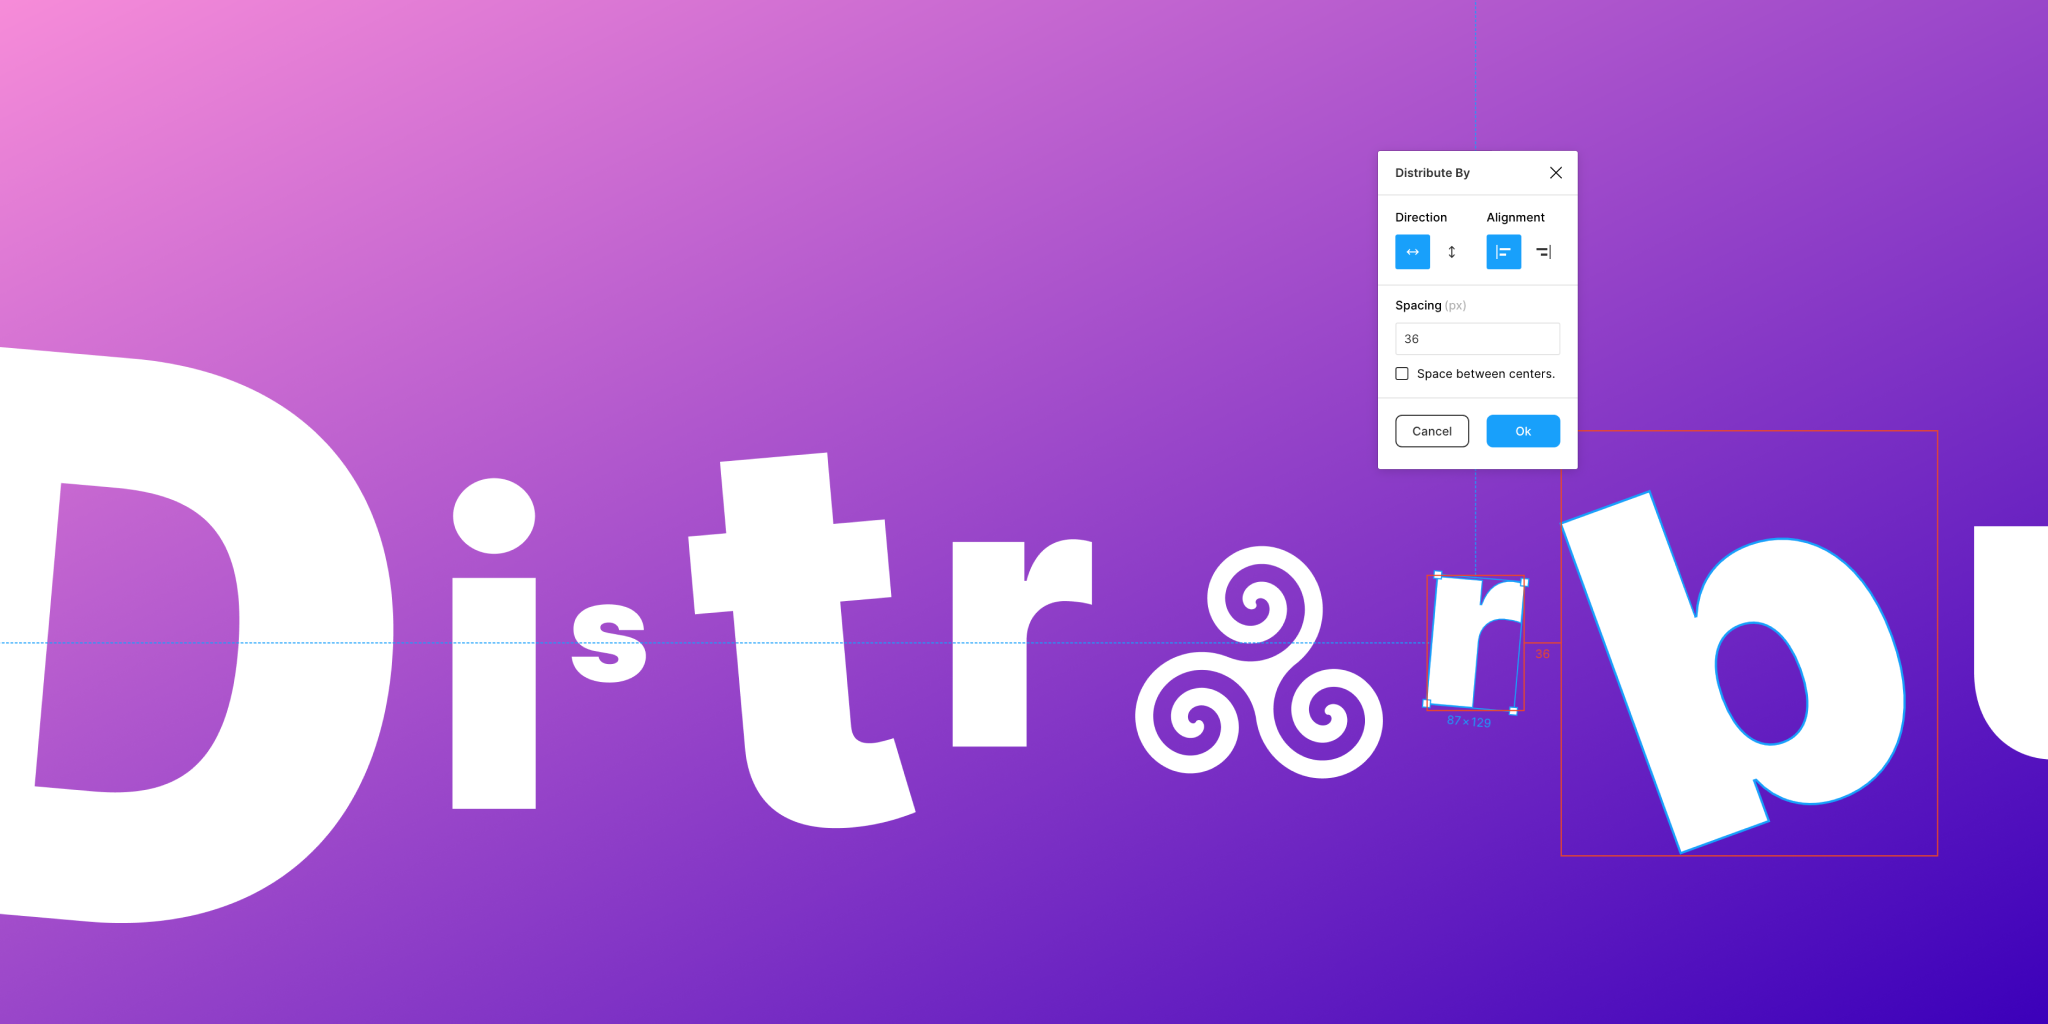
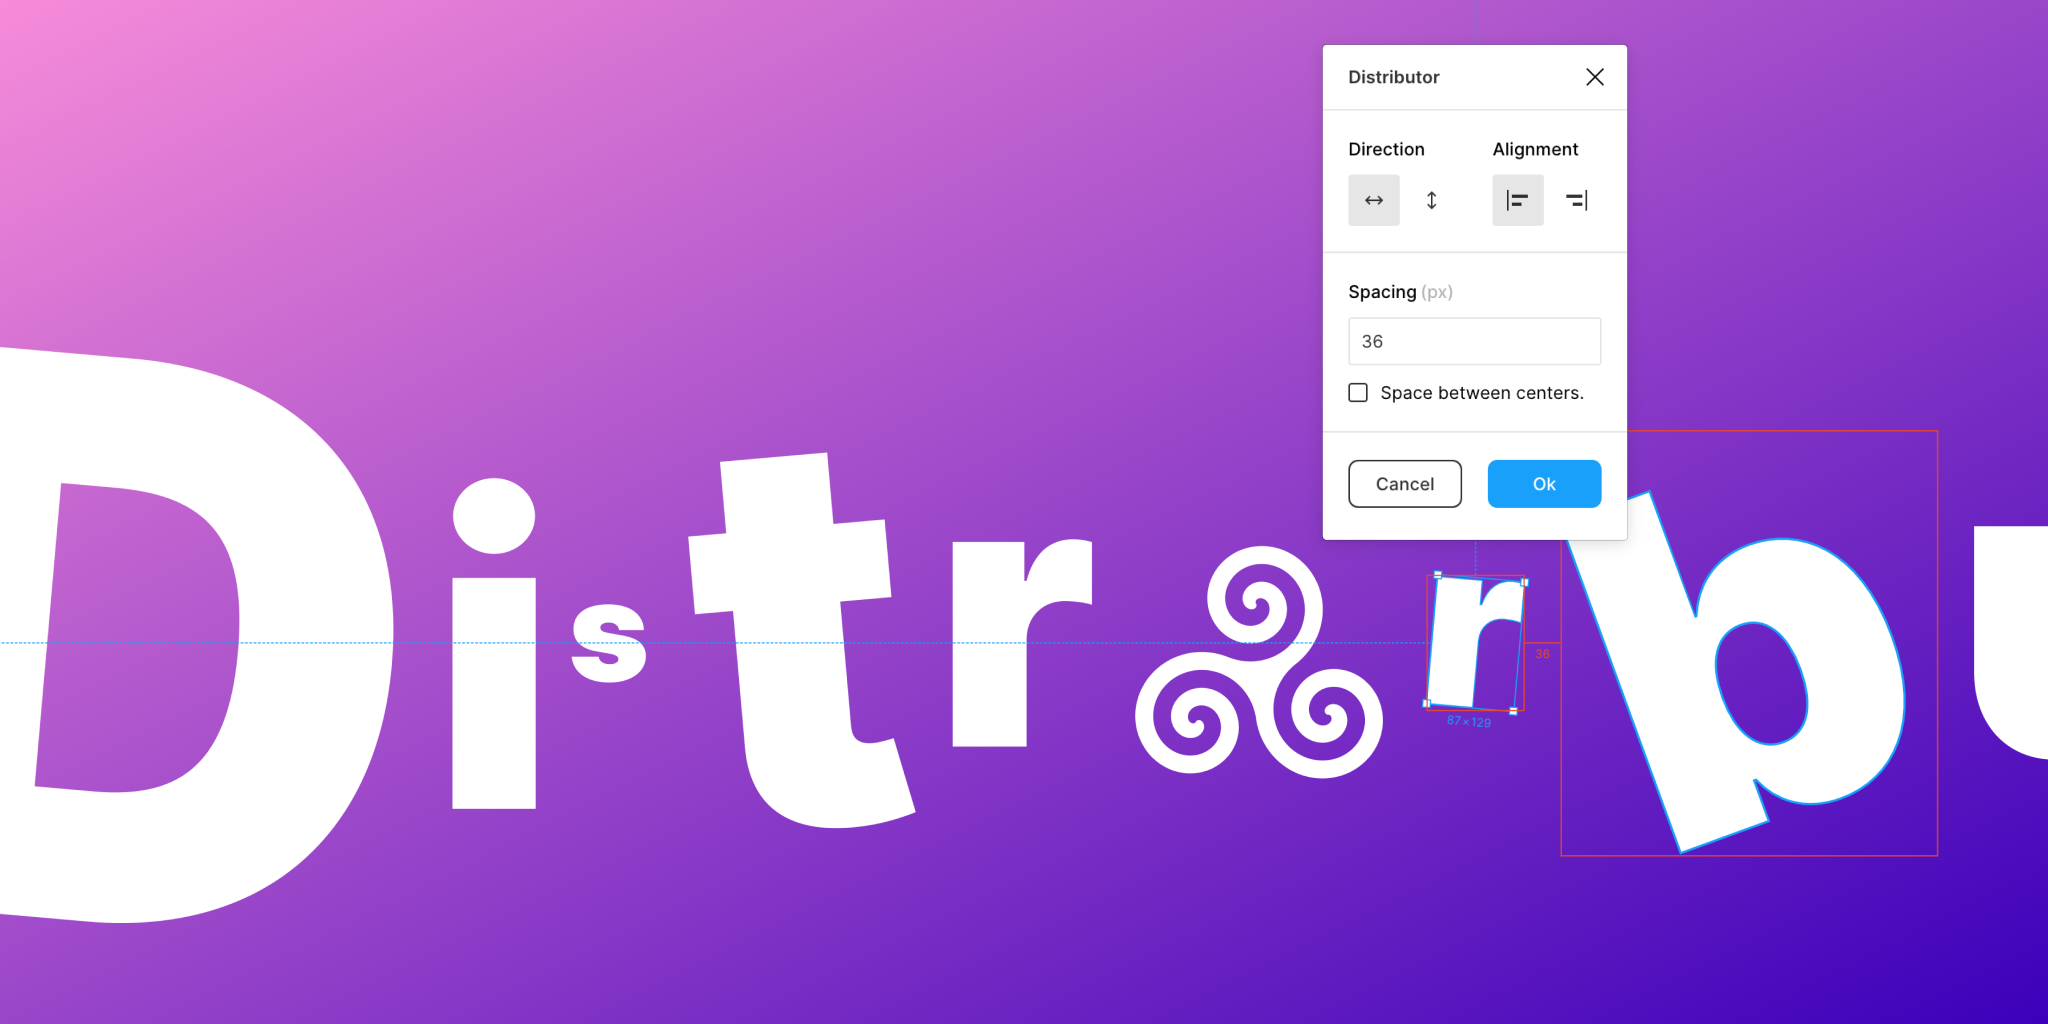
update UI Color

Changed region(s): [[0.625, 0.0312, 0.8125, 0.5312]]

diff --git a/code.js b/code.js
@@ -63,7 +63,7 @@ function getRectFourPoints(x, y, width, height, ang) {
             figma.ui.postMessage(res);
         });
         // Render UI
-        figma.showUI(__html__, { width: 184, height: 252 });
+        figma.showUI(__html__, { width: 190, height: 268 });
         // Executes when user submits input
         figma.ui.onmessage = (msg) => {
             if (msg.type === 'distribute-submit') {

diff --git a/code.ts b/code.ts
@@ -83,7 +83,7 @@ function getRectFourPoints(x,y, width, height, ang) {
     })
 
     // Render UI
-    figma.showUI(__html__,{ width: 184, height: 252 });
+    figma.showUI(__html__,{ width: 190, height: 268 });
 
     // Executes when user submits input
     figma.ui.onmessage = (msg) => {

diff --git a/ui.html b/ui.html
@@ -1626,7 +1626,7 @@
   }
 
   .divider{
-    margin:14px 0px 14px -16px;
+    margin:16px 0px 16px -16px;
     width:100vw;
   }
 
@@ -1644,7 +1644,7 @@
   }
 
   .label{
-    margin: -4px 0px 8px 0px;
+    margin: 0px 0px 8px 0px;
     padding:0;
     font-weight: 500;
     color:#000;
